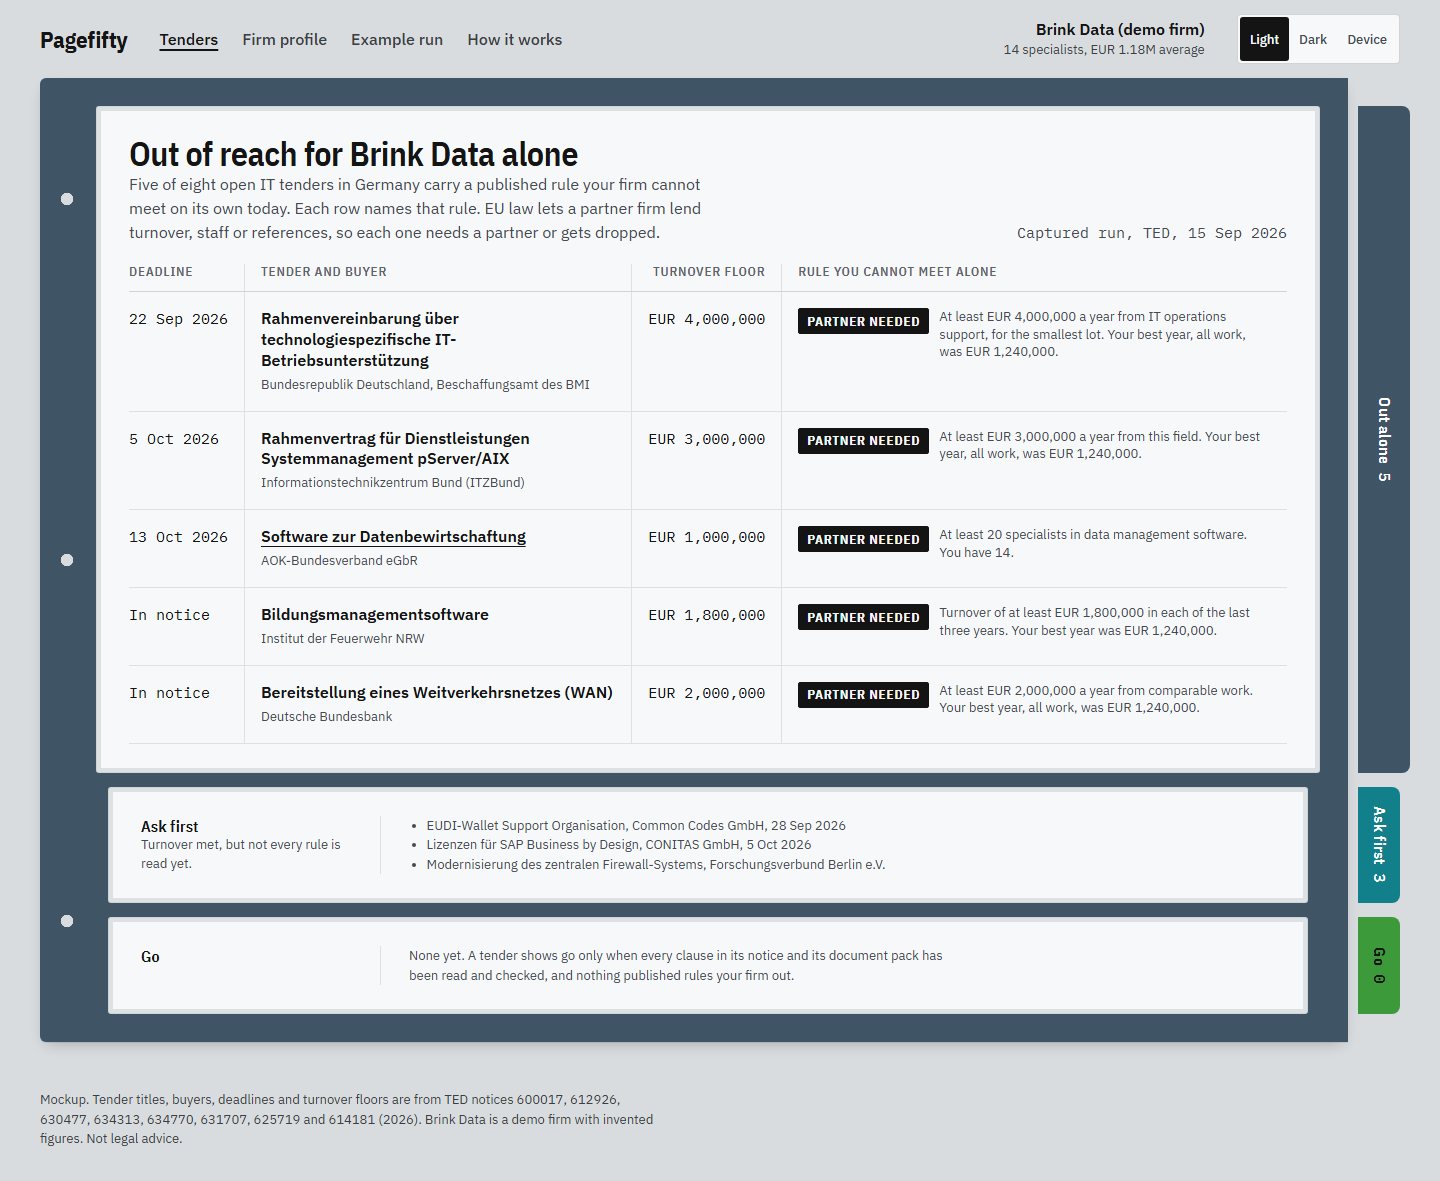
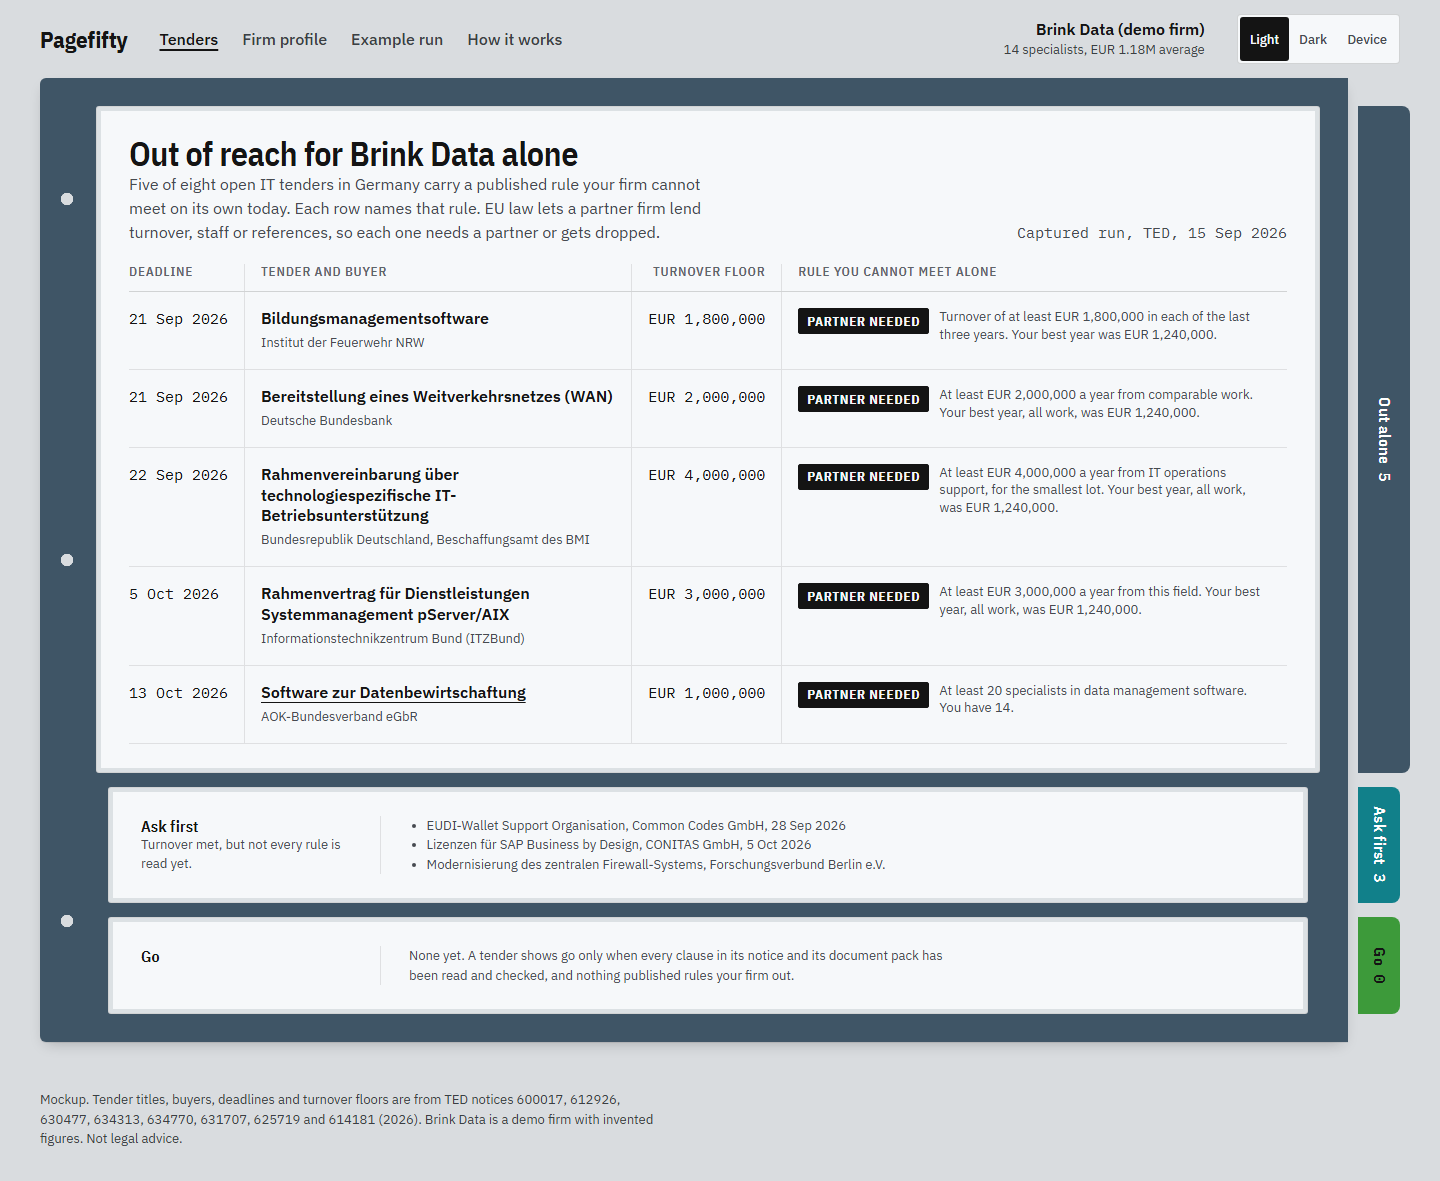
fix(design): show the request deadlines the index hid
Notices 634313 and 634770 publish a request-to-participate deadline,
21 Sep 2026 at 10:00 and 11:00 CEST, in ParticipationRequestReceptionPeriod.
The tenders index showed both as "In notice" and sorted them last under a
caption promising the soonest deadline first, so the two most urgent rows
sat at the bottom. DATA-05 shows the request deadline when a notice has one
and keeps "In notice" for a notice with neither. Both rows now show their
date and lead the list. Tenders mockups recaptured (the other 16 images
came out byte-identical).

ritual step p1

diff --git a/design/tenders.html b/design/tenders.html
@@ -74,6 +74,40 @@
 					</thead>
 					<tbody>
 						<tr>
+							<td class="mono" data-label="Deadline">21 Sep 2026</td>
+							<td>
+								<span class="t" lang="de">Bildungsmanagementsoftware</span>
+								<span class="b" lang="de">Institut der Feuerwehr NRW</span>
+							</td>
+							<td class="num mono" data-label="Turnover floor">EUR 1,800,000</td>
+							<td>
+								<div class="vcell">
+									<span class="vtag out">Partner needed</span
+									><small
+										>Turnover of at least EUR 1,800,000 in each of the last three years. Your best
+										year was EUR 1,240,000.</small
+									>
+								</div>
+							</td>
+						</tr>
+						<tr>
+							<td class="mono" data-label="Deadline">21 Sep 2026</td>
+							<td>
+								<span class="t" lang="de">Bereitstellung eines Weitverkehrsnetzes (WAN)</span>
+								<span class="b" lang="de">Deutsche Bundesbank</span>
+							</td>
+							<td class="num mono" data-label="Turnover floor">EUR 2,000,000</td>
+							<td>
+								<div class="vcell">
+									<span class="vtag out">Partner needed</span
+									><small
+										>At least EUR 2,000,000 a year from comparable work. Your best year, all work,
+										was EUR 1,240,000.</small
+									>
+								</div>
+							</td>
+						</tr>
+						<tr>
 							<td class="mono" data-label="Deadline">22 Sep 2026</td>
 							<td>
 								<span class="t" lang="de"
@@ -124,40 +158,6 @@
 								<div class="vcell">
 									<span class="vtag out">Partner needed</span
 									><small>At least 20 specialists in data management software. You have 14.</small>
-								</div>
-							</td>
-						</tr>
-						<tr>
-							<td class="mono" data-label="Deadline">In notice</td>
-							<td>
-								<span class="t" lang="de">Bildungsmanagementsoftware</span>
-								<span class="b" lang="de">Institut der Feuerwehr NRW</span>
-							</td>
-							<td class="num mono" data-label="Turnover floor">EUR 1,800,000</td>
-							<td>
-								<div class="vcell">
-									<span class="vtag out">Partner needed</span
-									><small
-										>Turnover of at least EUR 1,800,000 in each of the last three years. Your best
-										year was EUR 1,240,000.</small
-									>
-								</div>
-							</td>
-						</tr>
-						<tr>
-							<td class="mono" data-label="Deadline">In notice</td>
-							<td>
-								<span class="t" lang="de">Bereitstellung eines Weitverkehrsnetzes (WAN)</span>
-								<span class="b" lang="de">Deutsche Bundesbank</span>
-							</td>
-							<td class="num mono" data-label="Turnover floor">EUR 2,000,000</td>
-							<td>
-								<div class="vcell">
-									<span class="vtag out">Partner needed</span
-									><small
-										>At least EUR 2,000,000 a year from comparable work. Your best year, all work,
-										was EUR 1,240,000.</small
-									>
 								</div>
 							</td>
 						</tr>
